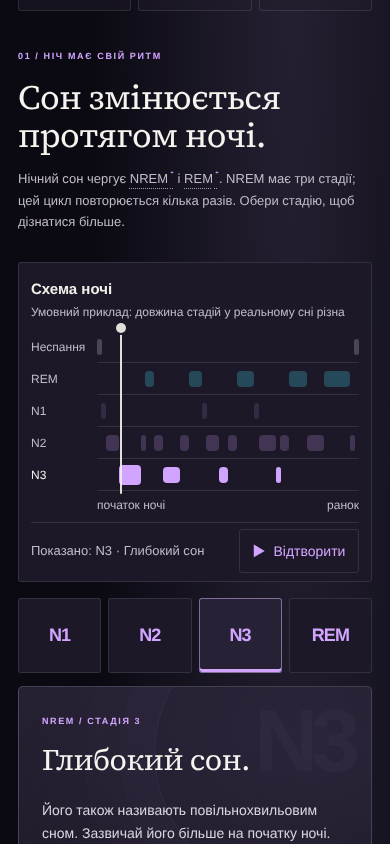
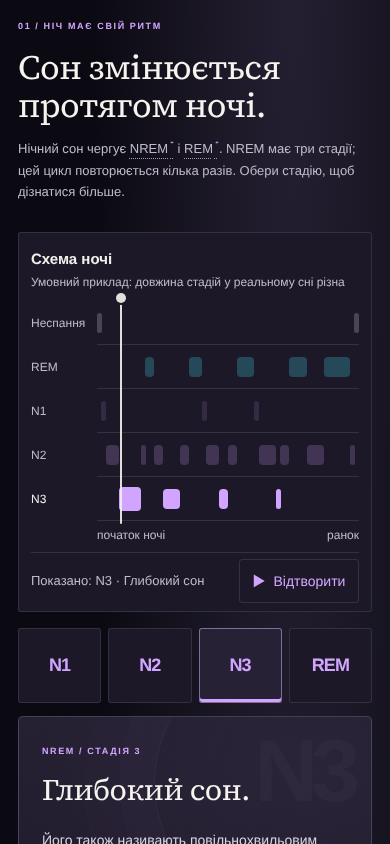
Документи: рядки схеми по 44 px, виміри, знімок
docs/SLEEP-MOVEMENT-MODULES.md: рядок схеми не нижчий за 44 px на телефоні й сенсорних екранах, виміри
висоти (390 px: 6360), що перевіряють тест і QA. CLAUDE.md: розмір рядка схеми. Оновлений знімок.

Claude-Session: https://claude.ai/code/session_01J29vQU3hAFNqfd2NxjB8zo

diff --git a/docs/SLEEP-MOVEMENT-MODULES.md b/docs/SLEEP-MOVEMENT-MODULES.md
@@ -39,7 +39,7 @@ Owner request: «Роби все що перечислив для правок»
 - Data and geometry: `src/sleep/night.mjs` (pure, no DOM; five cycles, 60 slots, 24 segments). The build (`scripts/build-platform.mjs`) renders the static markup between `<!-- EUA_SLEEP_NIGHT_START -->` and `<!-- EUA_SLEEP_NIGHT_END -->` in `dist/sleep.html`, so without JavaScript the scheme is visible, only without motion. `dist/sleep-night.js` is a generated copy; `dist/sleep.js` imports it with a version.
 - Motion (`src/sleep/page.mjs`, `mountNight`): a cursor passes the night in 30 s; one button «Пауза / Відтворити» (≥ 44 px). It starts by itself only when at least 35 % of the scheme is on the screen, stands still when off the screen or in a background tab, never overrides a person's pause or a chosen stage, and under `prefers-reduced-motion` starts paused so that only a person can run it. The label «На схемі зараз: …» has `aria-live="off"`; the chart has one text description (`role="img"` + `aria-label`).
 - Stage buttons answer to the scheme: choosing N1/N2/N3/REM pauses the cursor on the first bar of that stage, lights all bars of the stage and dims the rest; «Відтворити» removes the highlight. The first selection on load does not move the scheme.
-- **The rows are tappable (owner decision «3 так», 2026-11-09).** A tap on a row N1/N2/N3/REM (its label or the empty place of the row) acts as the stage button: the night pauses, the cursor stands on the first bar of the stage, the stage button is pressed and its explanation shows. A tap on a bar of that stage puts the cursor exactly there. The wake row has no explanation and does not react. The row is found from the height of the tap against the field of bars (five equal rows), so one listener covers labels, bars and gaps. A hand cursor and a hover highlight show it; the idle hint now reads «Обери рядок схеми чи кнопку стадії.». It is a quick pick beside the stage buttons (≥ 75 px), the same action: the scheme itself takes no focus and stays one image for a screen reader, the stage buttons are the keyboard way. Rows are 32 px on a phone (34–38 px wider), a shortcut, not the only control.
+- **The rows are tappable (owner decision «3 так», 2026-11-09).** A tap on a row N1/N2/N3/REM (its label or the empty place of the row) acts as the stage button: the night pauses, the cursor stands on the first bar of the stage, the stage button is pressed and its explanation shows. A tap on a bar of that stage puts the cursor exactly there. The wake row has no explanation and does not react. The row is found from the height of the tap against the field of bars (five equal rows), so one listener covers labels, bars and gaps. A hand cursor and a hover highlight show it; the idle hint now reads «Обери рядок схеми чи кнопку стадії.». It is a quick pick beside the stage buttons (≥ 75 px), the same action: the scheme itself takes no focus and stays one image for a screen reader, the stage buttons are the keyboard way. Rows are at least 44 px tall on a phone and on any touch screen (`(pointer: coarse)`, owner decision «6 так», 2026-11-10), 34–38 px with a mouse; it is still a shortcut beside the stage buttons, not the only control.
 - Colours: N1/N2/N3 are three steps of one hue (deeper = more saturated; opacity .48/.74/1), REM is cyan `#3cc8d8`, wake is the neutral label colour. Checked with the `dataviz` validator rules in both site palettes against the scheme background (cosmic `#1d1827`, green `#152a25`), for every pair of stages that stand next to each other in time. Categories (wake–N1, wake–N2, N2–REM, REM–N1): normal-vision ΔE ≥ 15 (measured 16.3–29.2), protan/deutan ΔE ≥ 8 (11.0–28.6). Neighbouring steps of the ramp (N1–N2, N2–N3): `validateOrdinal` passes (lightness steps ≥ 0.06, one hue), ΔE 13.5–14.3 (CVD 12.7–13.9). Every bar against the background ≥ 3:1 (WCAG 1.4.11: N1 3.0, N2 5.3, N3 8.5–8.7, REM 7.5–8.6, wake 8.9–9.1), label text ≥ 4.5. The first version failed this: wake at 55 % opacity was ΔE ≈ 10 from N1/N2, and N1 at 38 % opacity had contrast 2.4 (< 3), found by the accessibility review; both were raised. **Known deviation:** REM (L ≈ 0.77, as high as the top of the ramp, N3 0.79–0.82) is above the categorical lightness band (L ≤ 0.67 on dark); a darker cyan cannot keep ΔE ≥ 15 from N2 (search over L .62–.67 and 85 hues: best 14.7 / 7.9). It is one accent beside an ordinal ramp, not a categorical palette. The same maths runs in Browser QA on the real computed colours (`sleepNightFlow`).
 - Bars are 10–24 px tall, 4 px rounded; a bar starts where its segment starts (the QA flow compares the pixels with the data).
 
@@ -77,6 +77,8 @@ So the phone page is now 0.2 screen longer than before the upgrade, which is the
 Tests: `tests/sleep-habits.test.mjs` (markup and wording, fold/unfold, independent taps, breakpoint crossing both ways, no state left half open; each rule checked by breaking the code), Browser QA `sleepHabitsFlow` at 390, 360 and 1440 (row sizes, hidden texts, tap and keyboard, print, resizing both ways without a reload, chapter link, no JavaScript, no errors). Screenshots: `docs/screenshots/sleep-upgrade/habits-*.png`.
 
 **After «3 так» and «5 так» (tappable rows, related rail).** Page height in Chromium: 390 px 6223 → 6300 px (7.5 screens), 360 px 6364 → 6421 px, 1440 px 4862 → 4871 px. On a phone the page grew by about 77 px: the rail takes more height than the 2 × 2 tiles (57 px, three of four serif titles wrap to two lines) and the scheme rows were made 32 px for tapping (20 px). Screenshots: `docs/screenshots/sleep-upgrade/scheme-m390-tap-n3.png`, `after-*-related.png`. Tests: `tests/sleep-night-mount.test.mjs` (a tap acts as the stage button, every row picks its own stage, the wake row and taps outside the bars do nothing, a tap on a bar puts the cursor there, a collapsed scheme ignores taps; each rule was checked by breaking the code), `tests/sleep-related.test.mjs` (the rail CSS contract and the journal records); Browser QA `sleepNightFlow` taps the real rows and bars with the mouse and checks the node and hairline of the rail (288 checks at three widths; deliberate breakages are caught).
+
+**After «6 так» (44 px rows).** The owner asked for the same 44 px tap targets as everywhere else, so the rows of the scheme are 44 px on a phone (`max-width: 600px`) and on any touch screen (`(pointer: coarse)`, so a tablet in either orientation too), with 20 px bars (the current bar is 4 px taller, 24 px at most). Page height in Chromium: 390 px 6300 → 6360 px (+60 as estimated), 360 px 6421 → 6481 px, 1440 px unchanged (4871 px). Tests: the CSS contract in `tests/sleep-related.test.mjs` (a phone row ≥ 44 px, a bar ≤ 20 px, the touch rule comes after the wide-screen rule), Browser QA `sleepNightFlow` measures the real row on every width and taps the N2 row on an emulated touch tablet (768 px, `hasTouch`) with a real touch event (291 checks at three widths); a row back at 32 px or a missing touch rule is caught by both.
 
 **Accessibility review (WCAG 2.1 AA, `design:accessibility-review`, run in Chromium).** Found and fixed: the N1 bars had contrast 2.4:1 (< 3:1, SC 1.4.11), so the ramp became .48/.74/1 and the REM colour was re-tuned (see colours above); the decorative arrow of a related link was read as part of the link name, now it has an empty text alternative (`content: '…' / ''`, with a plain fallback). Checked and fine: a pause control for the moving cursor (SC 2.2.2) that is the first stop of the scheme, the scheme starts paused under `prefers-reduced-motion` and stands still off the screen; every control shows a 2 px focus ring and the tab order is hero button → chapters → term links → play/pause → stage buttons → … → related links; the scheme is a `figure` named by its caption with one `img` description, the moving label is `aria-live="off"`, the button's name changes between «Пауза» and «Відтворити»; no overflow at 320 px, nor at the site's larger text sizes (the site scales them with `zoom`); tap targets ≥ 44 px. Not tested: a real screen reader (VoiceOver, TalkBack, NVDA).
 

diff --git a/CLAUDE.md b/CLAUDE.md
@@ -52,7 +52,7 @@
 - Поле пошуку в героєві головної (T7, рішення D3): підказка «Знайти розбір або перевірити твердження» і текст порожнього результату беруться з одного місця (`SEARCH_PLACEHOLDER`, `EMPTY_RESULT_TEXT` у `src/platform/search.mjs`), кнопка зі словом «Знайти», без ознак чату. Пошук нічого не оцінює й не показує відповідей розборів, лише веде до сторінок; розбори шукаються окремою групою (рядки `study` з `dist/research-data.js` у `dist/platform-sections.js`). Рядок поля лишається 52 px: до 700 px довга підказка лягає на поле у два рядки (CSS), композиція героя не зсувається. Перевіряють `tests/claim-search.test.mjs` і `heroSearchFlow`, опис у `docs/HERO_SEARCH.md`.
 - Сторінка «Про проєкт» і спільне застереження (рішення власника «давай 1, 2, 3», 2026-11-03): `dist/about.html` має шість розділів з якорями `ab-*` і пише лише те, що можна перевірити за самим сайтом; імен, посад і кваліфікацій автора на ній немає, поки власник їх не надасть (нічого не вигадувати). Внизу кожної сторінки стоїть один рядок застереження «Матеріал освітній і не є персональною медичною рекомендацією.» з посиланням «Про проєкт»: текст лежить в одному місці, `src/platform/site-notice.mjs`, а збірка (`scripts/build-platform.mjs`) вставляє його в кожен `dist/*.html` перед кінцевими порожніми `<script>` (повторний запуск нічого не змінює; на нову сторінку застереження стане само). Стилі `dist/site-notice.css` без власних кольорів. Твердження сторінки прив’язані до коду тестом `tests/about-page.test.mjs`: коли на сайті з’явиться лічильник відвідувачів, форма Formspree, записаний науковий перегляд чи інша адреса хостингу, тест зупиняє збірку, доки не оновлено розділи «Приватність» і «Стан наукового перегляду». Опис і межі: `docs/ABOUT_AND_NOTICE.md`.
 - Жодних сторонніх запитів до явного кліку користувача. Жодної особистої пошти в коді.
-- Схема ночі на сторінці «Сон і відновлення» (рішення власника 34–37, 2026-11-09): дані й геометрія в `src/sleep/night.mjs` (чистий модуль без DOM), нерухому розмітку з нього вставляє збірка між позначками `EUA_SLEEP_NIGHT_START/END` у `dist/sleep.html`, а `dist/sleep-night.js` це згенерована копія (піднімати `?v=` в імпорті `sleep.js` у `scripts/build-platform.mjs`). Рядки N1…REM на схемі натискні (торкання = кнопка стадії, `show(id, at)` у `mountNight`; сама схема не фокусується, для клавіатури лишаються кнопки стадій). Схема умовна: лише те, що вже сказано на сторінці за NIH/NHLBI (стадії чергуються, N3 зазвичай більше на початку ночі, REM ближче до ранку), без часів і чисел. Змінив дані чи кольори: збірка двічі, тести `sleep-night*` і QA `sleepNightFlow` перевіряють і дані, і різницю кольорів у двох палітрах. Правила кольору та вимір висоти: `docs/SLEEP-MOVEMENT-MODULES.md`.
+- Схема ночі на сторінці «Сон і відновлення» (рішення власника 34–37, 2026-11-09): дані й геометрія в `src/sleep/night.mjs` (чистий модуль без DOM), нерухому розмітку з нього вставляє збірка між позначками `EUA_SLEEP_NIGHT_START/END` у `dist/sleep.html`, а `dist/sleep-night.js` це згенерована копія (піднімати `?v=` в імпорті `sleep.js` у `scripts/build-platform.mjs`). Рядки N1…REM на схемі натискні (торкання = кнопка стадії, `show(id, at)` у `mountNight`; сама схема не фокусується, для клавіатури лишаються кнопки стадій; рядок не нижчий за 44 px на телефоні й сенсорних екранах, `--row` у `sleep.css`). Схема умовна: лише те, що вже сказано на сторінці за NIH/NHLBI (стадії чергуються, N3 зазвичай більше на початку ночі, REM ближче до ранку), без часів і чисел. Змінив дані чи кольори: збірка двічі, тести `sleep-night*` і QA `sleepNightFlow` перевіряють і дані, і різницю кольорів у двох палітрах. Правила кольору та вимір висоти: `docs/SLEEP-MOVEMENT-MODULES.md`.
 - Картки звичок на сторінці «Сон» на телефоні (до 600 px) згортає JavaScript (`mountHabits` у `src/sleep/page.mjs`, рішення власника «1 так», 2026-11-09); вигляд «рейка» (вузли-кружки з номером із лічильника CSS, лінія між ними, шеврон), а не стандартний акордеон з плюсами (вимога про шаблонність): розмітка статична з `.habit-body` (слова не змінювати), без JavaScript, на комп’ютері й у друку все видно. Урок: на сайті діє загальне `[hidden]{display:none!important}`, тому щоб показати схований елемент у друку, правило мусить мати `!important`; а будь-яке «ховання» робити лише скриптом, не CSS, щоб без скрипта текст не пропадав.
 
 ## Безпека змісту
